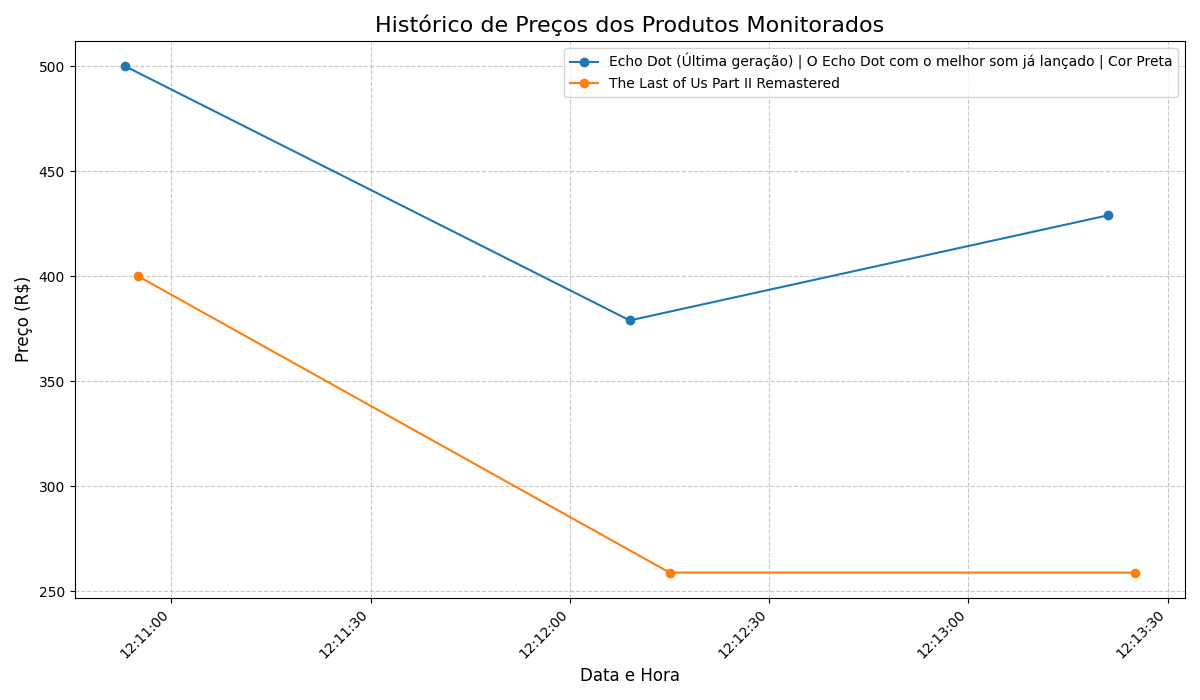
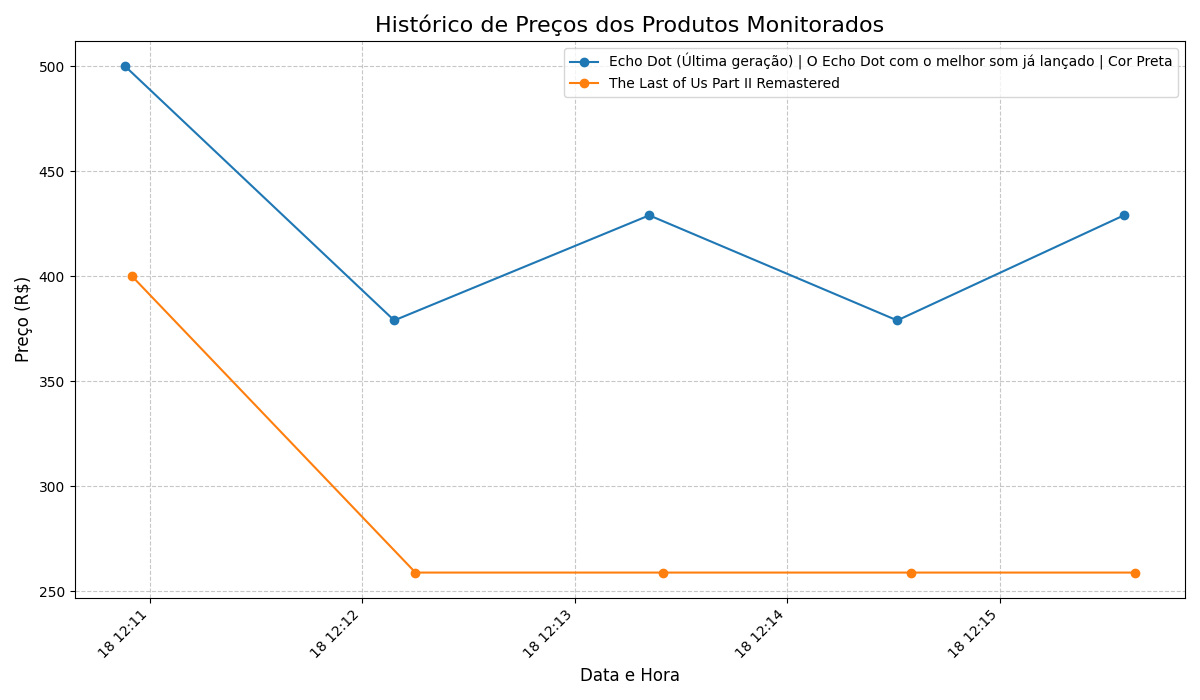
Versao Final

diff --git a/readme.md b/readme.md
@@ -1,23 +1,34 @@
 # 📈 Monitor de Preços de Produtos Online
 
-Um script em Python para monitorar o preço de um produto específico em um site de e-commerce (atualmente Amazon Brasil), registrar seu histórico de preços em um arquivo CSV e exibir as informações mais recentes.
+Um script robusto em Python para monitorar o preço de múltiplos produtos em sites de e-commerce (focado na Amazon Brasil), registrar seu histórico, enviar notificações por e-mail sobre quedas de preço e gerar visualizações gráficas do histórico.
 
 ---
 
 ## Funcionalidades ✨
 
-* **Coleta de Dados**: Acessa a página de um produto usando requisições HTTP.
-* **Web Scraping**: Extrai o nome e o preço do produto diretamente do HTML da página.
-* **Persistência de Dados**: Salva o histórico de preços (data/hora, nome do produto, preço) em um arquivo CSV, permitindo rastrear as variações ao longo do tempo.
-* **Tratamento de Erros**: Inclui tratamento para falhas na requisição HTTP e na extração/conversão do preço.
+Este monitor de preços oferece as seguintes funcionalidades avançadas:
+
+* **Coleta Automatizada de Dados**: Acessa páginas de produtos em e-commerces (Amazon Brasil) utilizando requisições HTTP configuradas para simular um navegador real.
+* **Web Scraping Inteligente**: Extrai dinamicamente o nome e o preço dos produtos do código HTML das páginas web.
+* **Monitoramento de Múltiplos Produtos**: Permite configurar e rastrear o preço de uma lista de produtos diferentes simultaneamente.
+* **Persistência de Dados**: Salva o histórico de preços de todos os produtos (Data/Hora, Nome do Produto, Preço, URL) em um arquivo CSV (`historico_precos.csv`), possibilitando o rastreamento das variações ao longo do tempo.
+* **Agendamento Automático**: O script pode ser configurado para rodar em intervalos regulares (minutos, horas, dias), verificando e registrando os preços sem intervenção manual.
+* **Notificações por E-mail**: Envia alertas personalizados por e-mail (com formatação HTML rica) para múltiplos destinatários sempre que uma queda de preço for detectada para qualquer um dos produtos monitorados.
+* **Visualização Gráfica do Histórico**: Gera automaticamente um gráfico de linha (`historico_precos_grafico.png`) mostrando a evolução dos preços de todos os produtos ao longo do tempo.
+* **Tratamento de Erros**: Inclui tratamento para falhas comuns, como problemas de acesso à página (403 Forbidden, 404 Not Found), erros na extração de dados e falhas no envio de e-mail.
 
 ---
 
 ## Tecnologias Utilizadas 🛠
 
 * **Python 3**: Linguagem de programação principal.
-* **`requests`**: Biblioteca para fazer requisições HTTP.
+* **`requests`**: Biblioteca para fazer requisições HTTP e interagir com sites.
 * **`BeautifulSoup4`**: Biblioteca para parsing de HTML e extração de dados (web scraping).
+* **`pandas`**: Poderosa biblioteca para manipulação e análise de dados (leitura de CSV, filtragem, etc.).
+* **`matplotlib`**: Biblioteca para criação de gráficos estáticos e interativos em Python.
+* **`schedule`**: Biblioteca para agendar a execução de tarefas Python em intervalos definidos.
+* **`smtplib`**: Módulo padrão do Python para enviar e-mails usando o protocolo SMTP.
+* **`email.mime.text`**: Módulo padrão do Python para criar mensagens de e-mail formatadas (incluindo HTML).
 * **`csv`**: Módulo padrão do Python para trabalhar com arquivos CSV.
 * **`datetime`**: Módulo padrão do Python para lidar com datas e horas.
 
@@ -27,18 +38,17 @@ Um script em Python para monitorar o preço de um produto específico em um site
 
 ### Pré-requisitos
 
-Certifique-se de ter o [Python 3](https://www.python.org/downloads/) instalado em seu sistema. É altamente recomendável usar um ambiente virtual para gerenciar as dependências.
+Certifique-se de ter o [Python 3](https://www.python.org/downloads/) instalado em seu sistema. É **altamente recomendável** utilizar um ambiente virtual para isolar as dependências do projeto.
 
 ### Instalação
 
-1.  **Clone o repositório** (ou baixe o arquivo `monitor_preco.py`):
+1.  **Clone o repositório** para o seu computador:
     ```bash
-    git clone [https://github.com/Jefinhozit0/Monitor-de-pre-os-online.git]
-    cd SEU_REPOSITORIO
+    git clone [https://github.com/Jefinhozit0/Monitor-de-pre-os-online.git](https://github.com/Jefinhozit0/Monitor-de-pre-os-online.git)
+    cd Monitor-de-pre-os-online
     ```
 
-
-2.  **Crie e ative um ambiente virtual** (recomendado):
+2.  **Crie e ative um ambiente virtual**:
     ```bash
     python -m venv .venv
     # No Windows (PowerShell):
@@ -49,19 +59,34 @@ Certifique-se de ter o [Python 3](https://www.python.org/downloads/) instalado e
 
 3.  **Instale as dependências** do projeto:
     ```bash
-    pip install requests beautifulsoup4
+    pip install requests beautifulsoup4 pandas matplotlib schedule
     ```
 
-### Configuração do Produto
+### Configuração do Projeto
 
 1.  **Abra o arquivo `monitor_preco.py`** em seu editor de texto.
-2.  **Altere a variável `URL_PRODUTO`** (linha 7) para a URL do produto que você deseja monitorar na Amazon Brasil.
-    * Exemplo: `URL_PRODUTO = "https://www.amazon.com.br/Echo-Dot-5%C2%AA-gera%C3%A7%C3%A3o-Cor-Preta/dp/B09B8VGCR8/"`
-3.  **Ajuste os seletores de HTML (opcional)**: O script tenta encontrar o nome (`id="productTitle"`) e o preço (`class="a-price-whole"`, `id="priceblock_ourprice"`, etc.) usando IDs e classes comuns da Amazon. Se o script não conseguir encontrar o preço ou o nome, você precisará **inspecionar a página do produto no navegador** (clique direito -> "Inspecionar") para encontrar os seletores HTML exatos e ajustar a função `extract_product_info`.
+
+2.  **Configure os Produtos para Monitorar**:
+    * Localize a lista `PRODUTOS_PARA_MONITORAR` no início do script.
+    * Preencha esta lista com dicionários, cada um contendo o `"nome"` (para sua referência) e a `"url"` do produto na Amazon Brasil que você deseja monitorar. Use URLs simplificadas (sem parâmetros de rastreamento longos) para maior robustez.
+        ```python
+        PRODUTOS_PARA_MONITORAR = [
+            {"nome": "Echo Dot 5a Geração (Preta)", "url": "[https://www.amazon.com.br/Echo-Dot-5%C2%AA-gera%C3%A7%C3%A3o-Cor-Preta/dp/B09B8VGCR8/](https://www.amazon.com.br/Echo-Dot-5%C2%AA-gera%C3%A7%C3%A3o-Cor-Preta/dp/B09B8VGCR8/)"},
+            {"nome": "Jogo The Last Of Us II", "url": "[https://www.amazon.com.br/Last-Us-Part-Remastered-PlayStation/dp/B0CP689L59/](https://www.amazon.com.br/Last-Us-Part-Remastered-PlayStation/dp/B0CP689L59/)"},
+            # Adicione mais produtos conforme necessário
+        ]
+        ```
+    * **Ajuste os seletores de HTML (opcional)**: O script usa seletores comuns da Amazon (IDs como `productTitle`, `priceblock_ourprice`, classes como `a-price-whole`). Se para algum produto o script não conseguir extrair o nome ou o preço, você precisará **inspecionar a página do produto no navegador** (clique direito -> "Inspecionar") para encontrar os seletores HTML exatos e ajustar a função `extract_product_info` de acordo.
+
+3.  **Configure as Notificações por E-mail**:
+    * Localize as variáveis `SENDER_EMAIL`, `SENDER_PASSWORD` e `RECEIVER_EMAILS`.
+    * `SENDER_EMAIL`: Seu endereço de e-mail (ex: `seu_email@gmail.com`).
+    * `SENDER_PASSWORD`: **IMPORTANTE:** Se estiver usando Gmail (ou outros provedores com verificação em duas etapas), você precisará gerar uma **senha de aplicativo (App Password)** nas configurações de segurança da sua conta Google e usar essa senha de 16 caracteres aqui. **Não utilize sua senha principal.**
+    * `RECEIVER_EMAILS`: Uma **lista** de endereços de e-mail para onde as notificações serão enviadas (ex: `["seu_email@gmail.com", "amigo@example.com"]`).
 
 ### Como Rodar
 
-Com o ambiente virtual ativo e as dependências instaladas:
+Com o ambiente virtual ativado e todas as dependências instaladas:
 
 ```bash
 python monitor_preco.py
